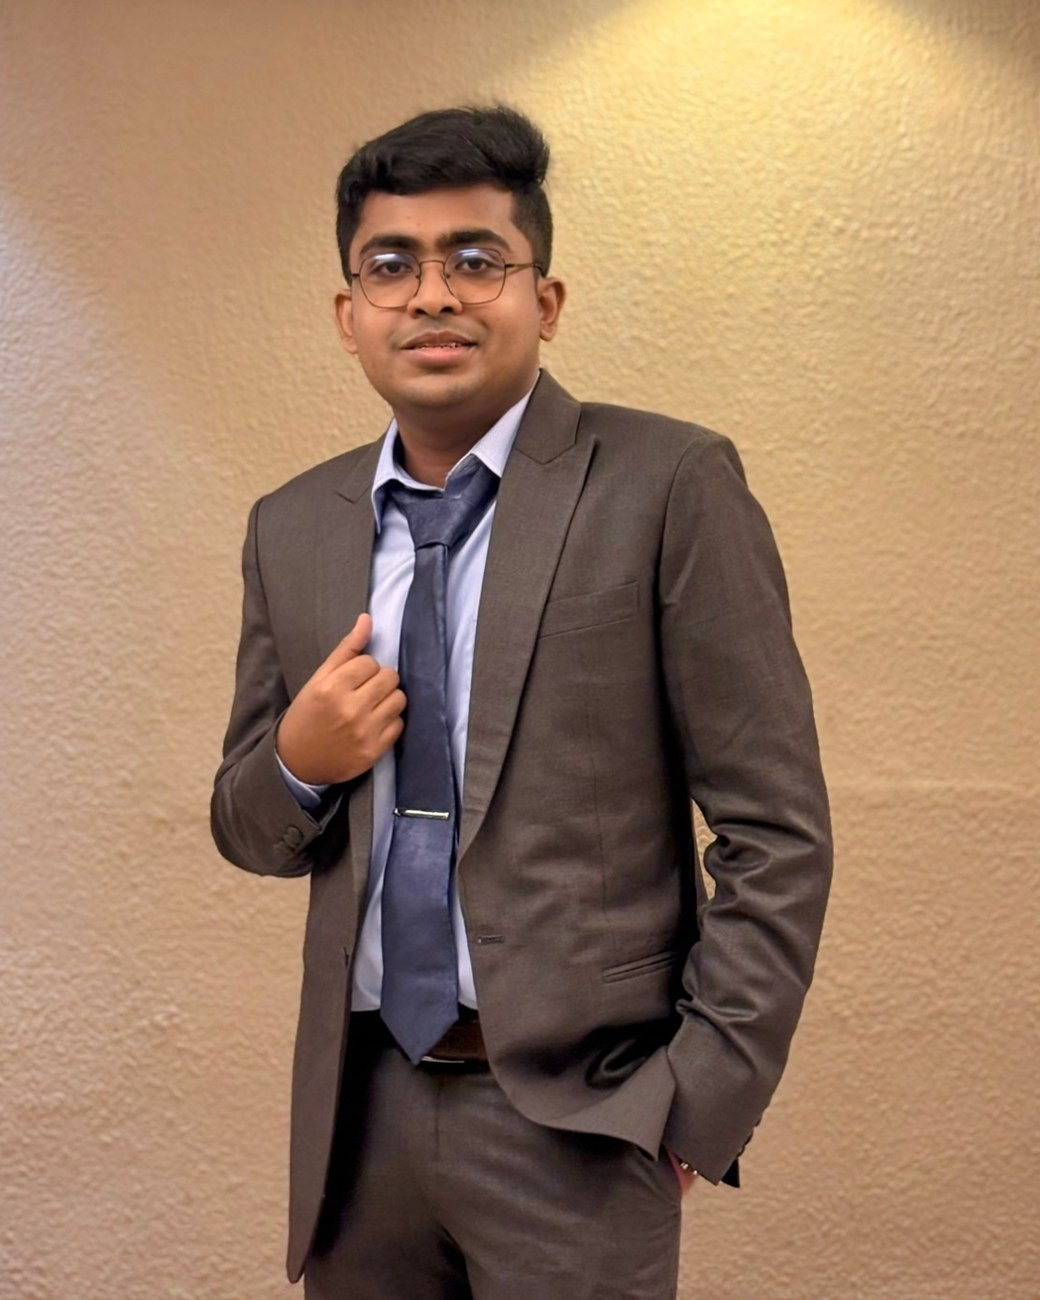
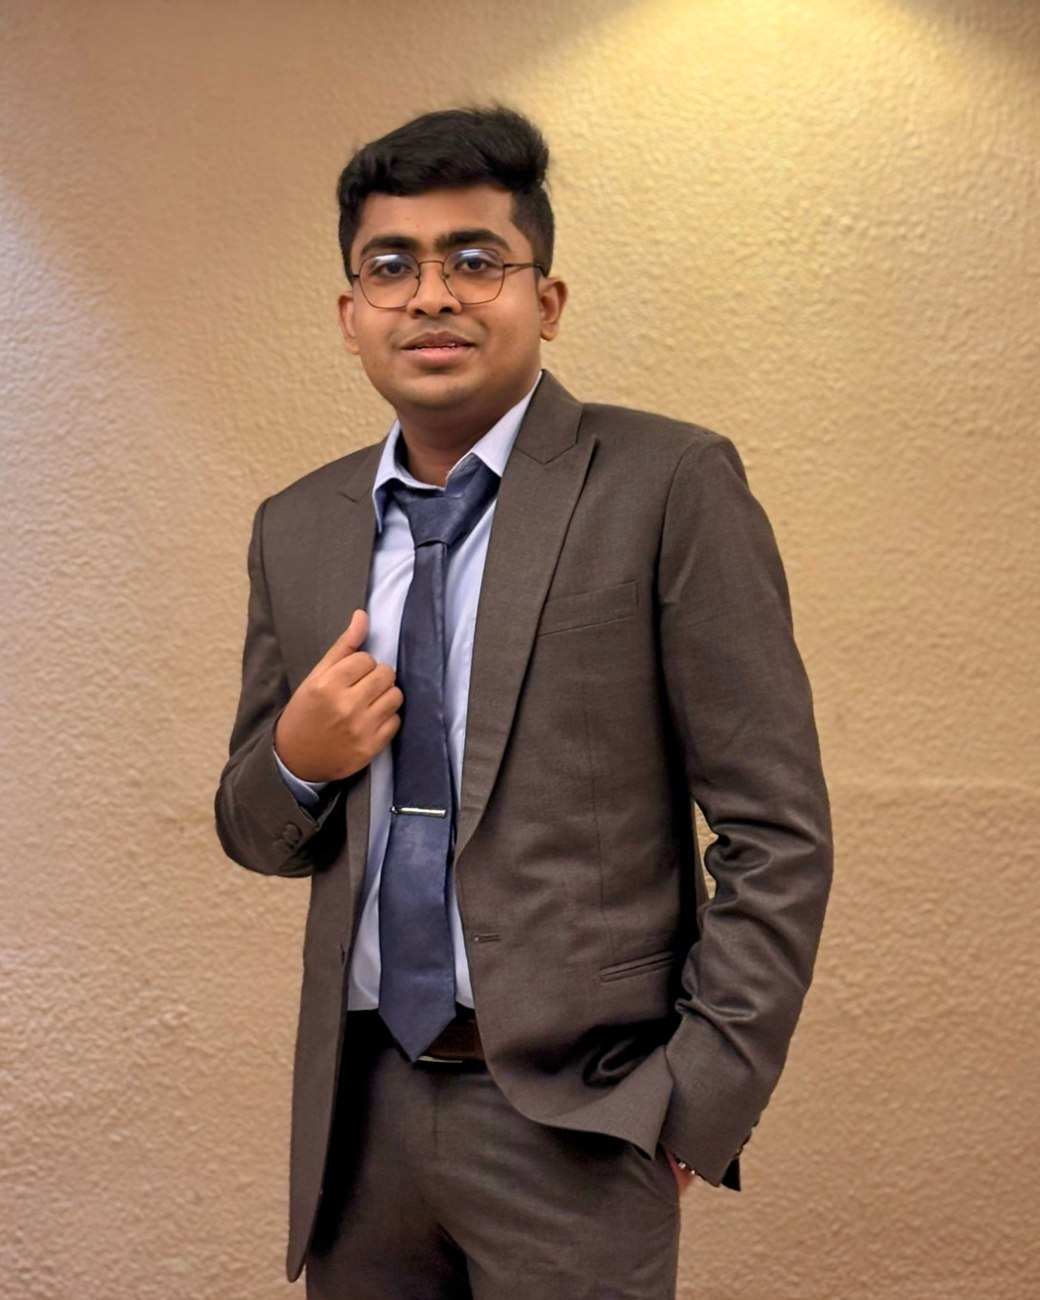
Add files via upload

diff --git a/index.html b/index.html
@@ -8,7 +8,7 @@
 <meta name="description" content="Swajan Sitho Paul, Lecturer in EECE at MIST and M.Sc. student at BUET. Photonic crystal fiber and surface plasmon resonance sensors.">
 <meta property="og:title" content="Swajan Sitho Paul">
 <meta property="og:description" content="Photonic crystal fiber and surface plasmon resonance sensors.">
-<meta property="og:image" content="https://swajan99.github.io/portrait.jpg?v=3">
+<meta property="og:image" content="https://swajan99.github.io/portrait.jpg?v=4">
 <link rel="icon" href="swajan.jpg">
 <link rel="preconnect" href="https://fonts.googleapis.com">
 <link rel="preconnect" href="https://fonts.gstatic.com" crossorigin>
@@ -130,7 +130,7 @@
 <section class="sec" id="about">
   <div class="wrap about-grid">
     <figure class="portrait">
-      <img src="portrait.jpg?v=3" width="1040" height="1300" alt="Swajan Sitho Paul in a dark suit and blue tie">
+      <img src="portrait.jpg?v=4" width="1040" height="1300" alt="Swajan Sitho Paul in a dark suit and blue tie">
     </figure>
     <div class="prose">
       <h2>About</h2>
